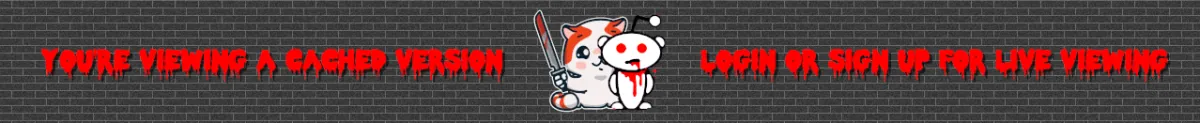
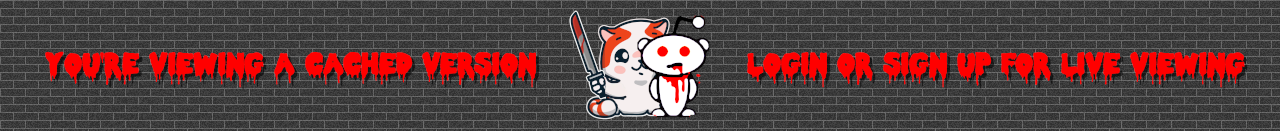
fix bad quality

diff --git a/files/templates/util/assetcache.html b/files/templates/util/assetcache.html
@@ -38,5 +38,5 @@ set CACHE_VER = {
 {%- endmacro -%}
 
 {%- macro asset_siteimg(name) -%}
-/i/{{SITE_NAME}}/{{name}}?v=3006
+/i/{{SITE_NAME}}/{{name}}?v=3007
 {%- endmacro -%}
